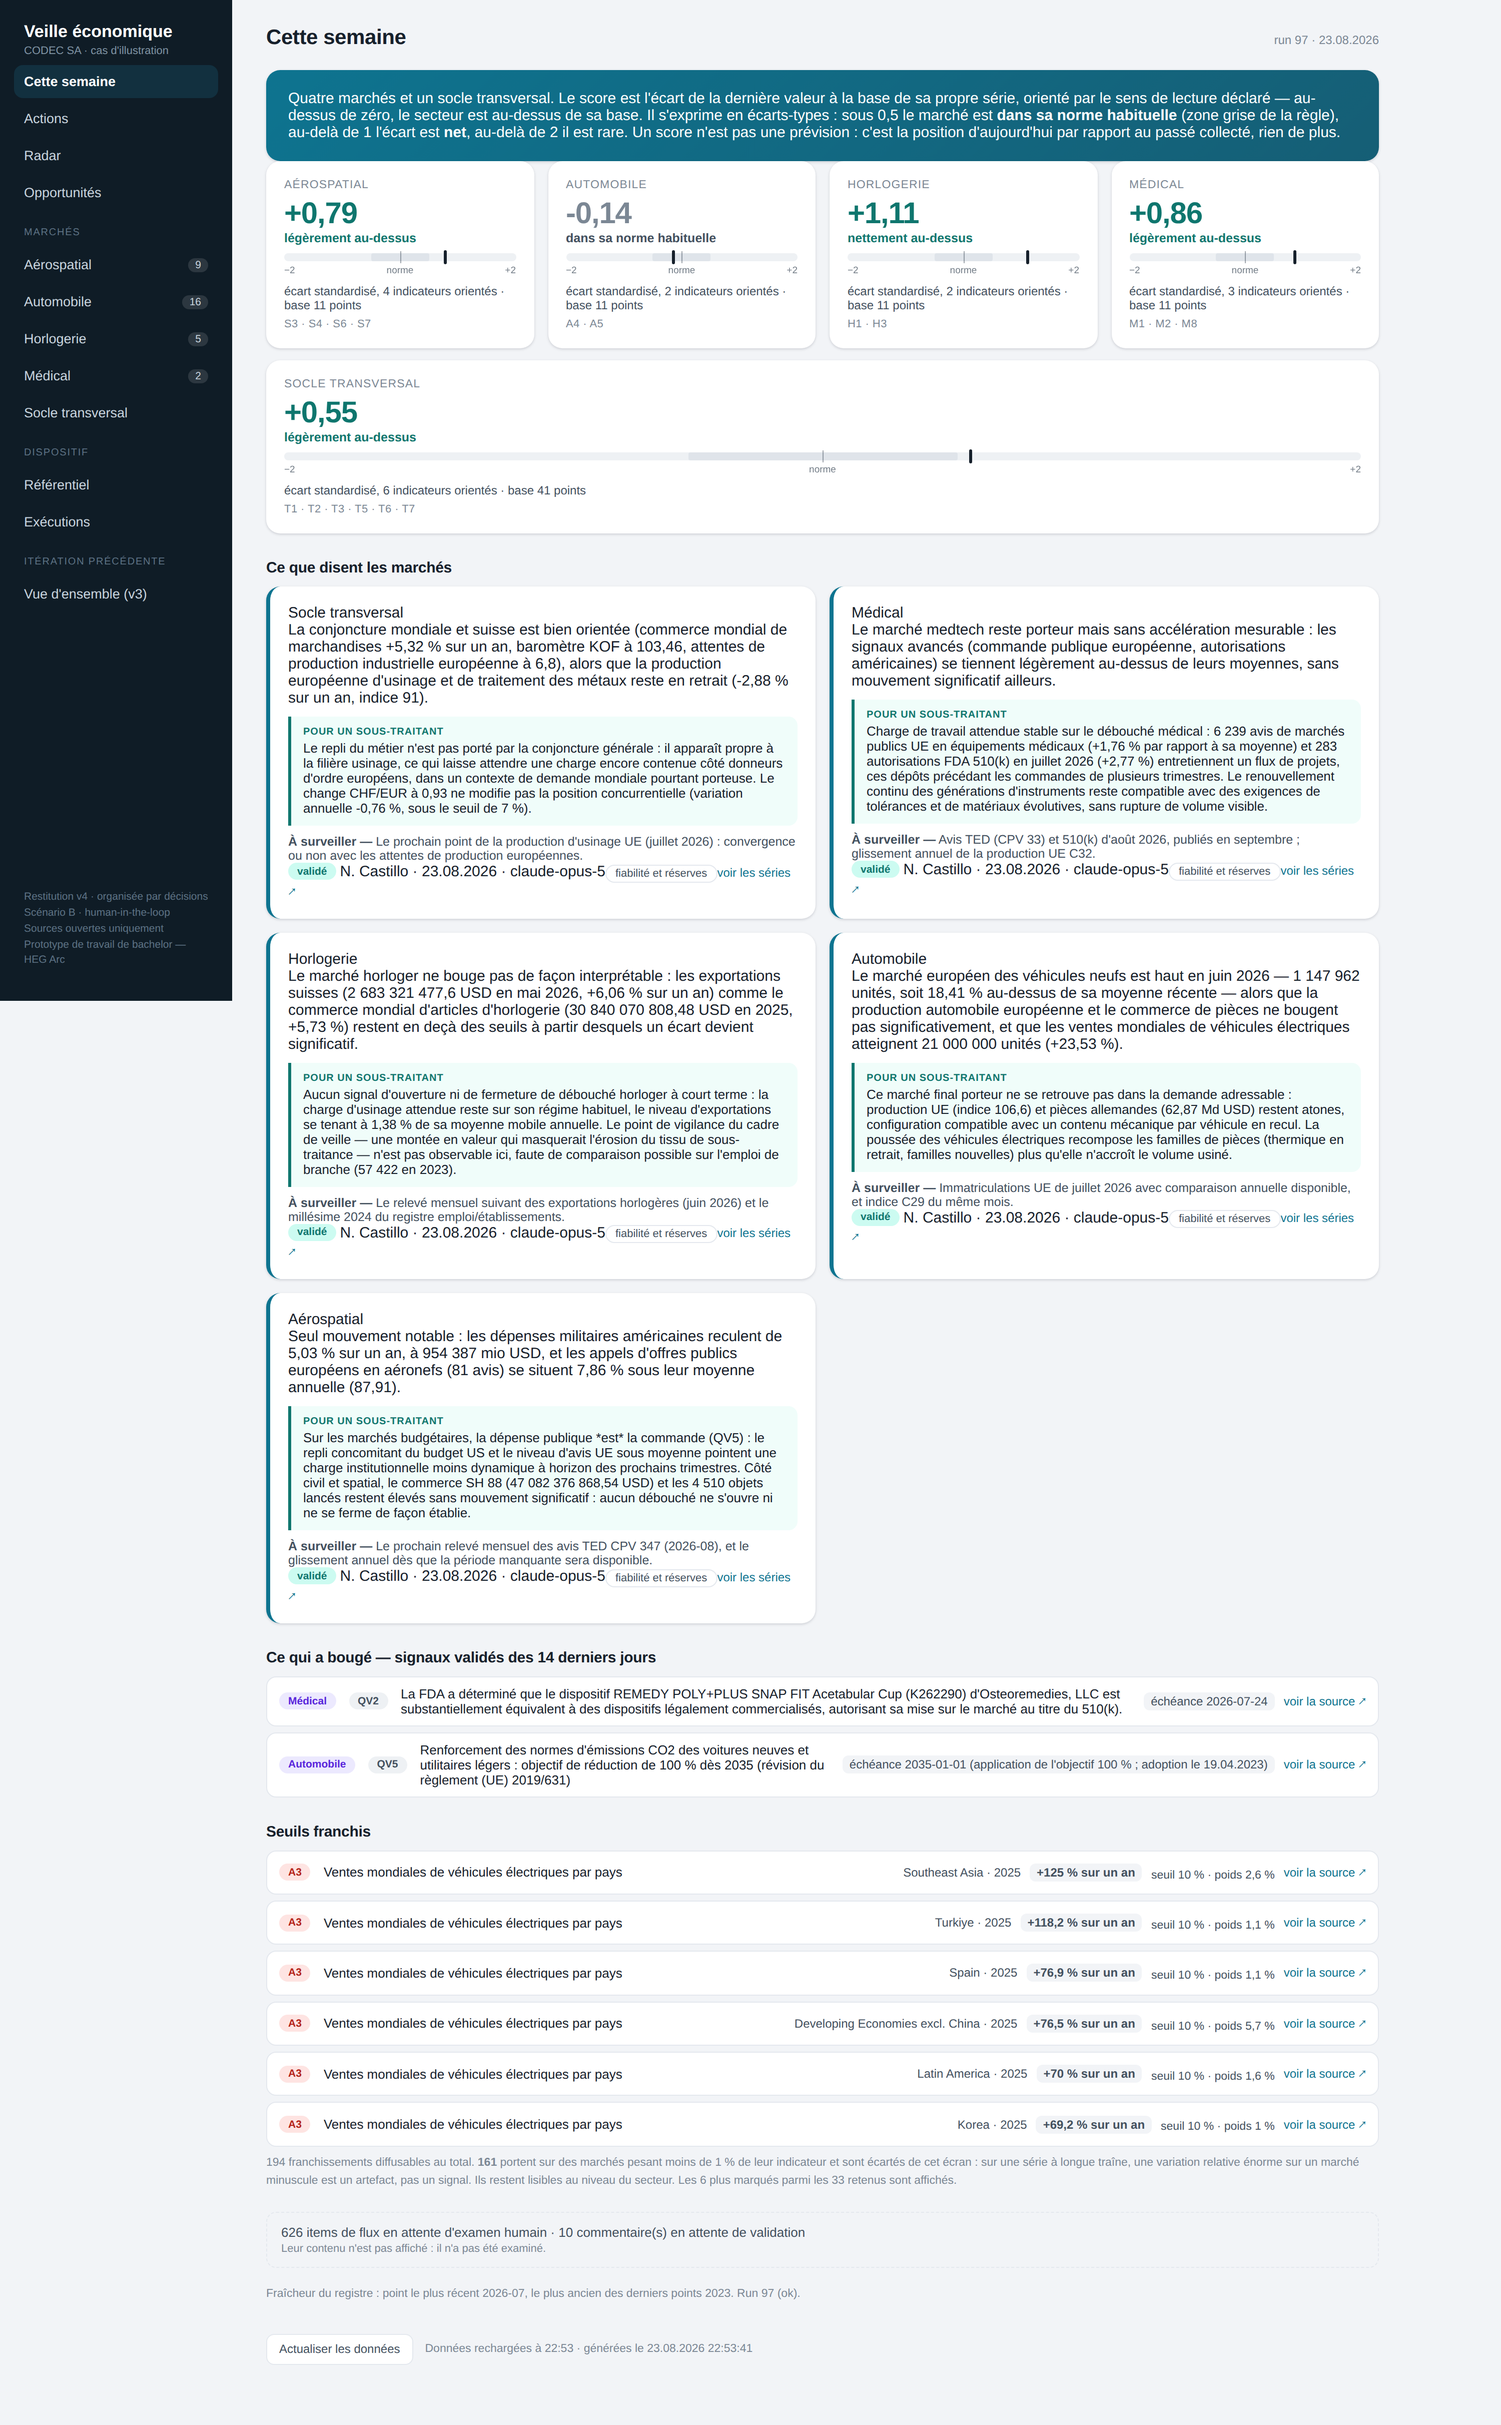
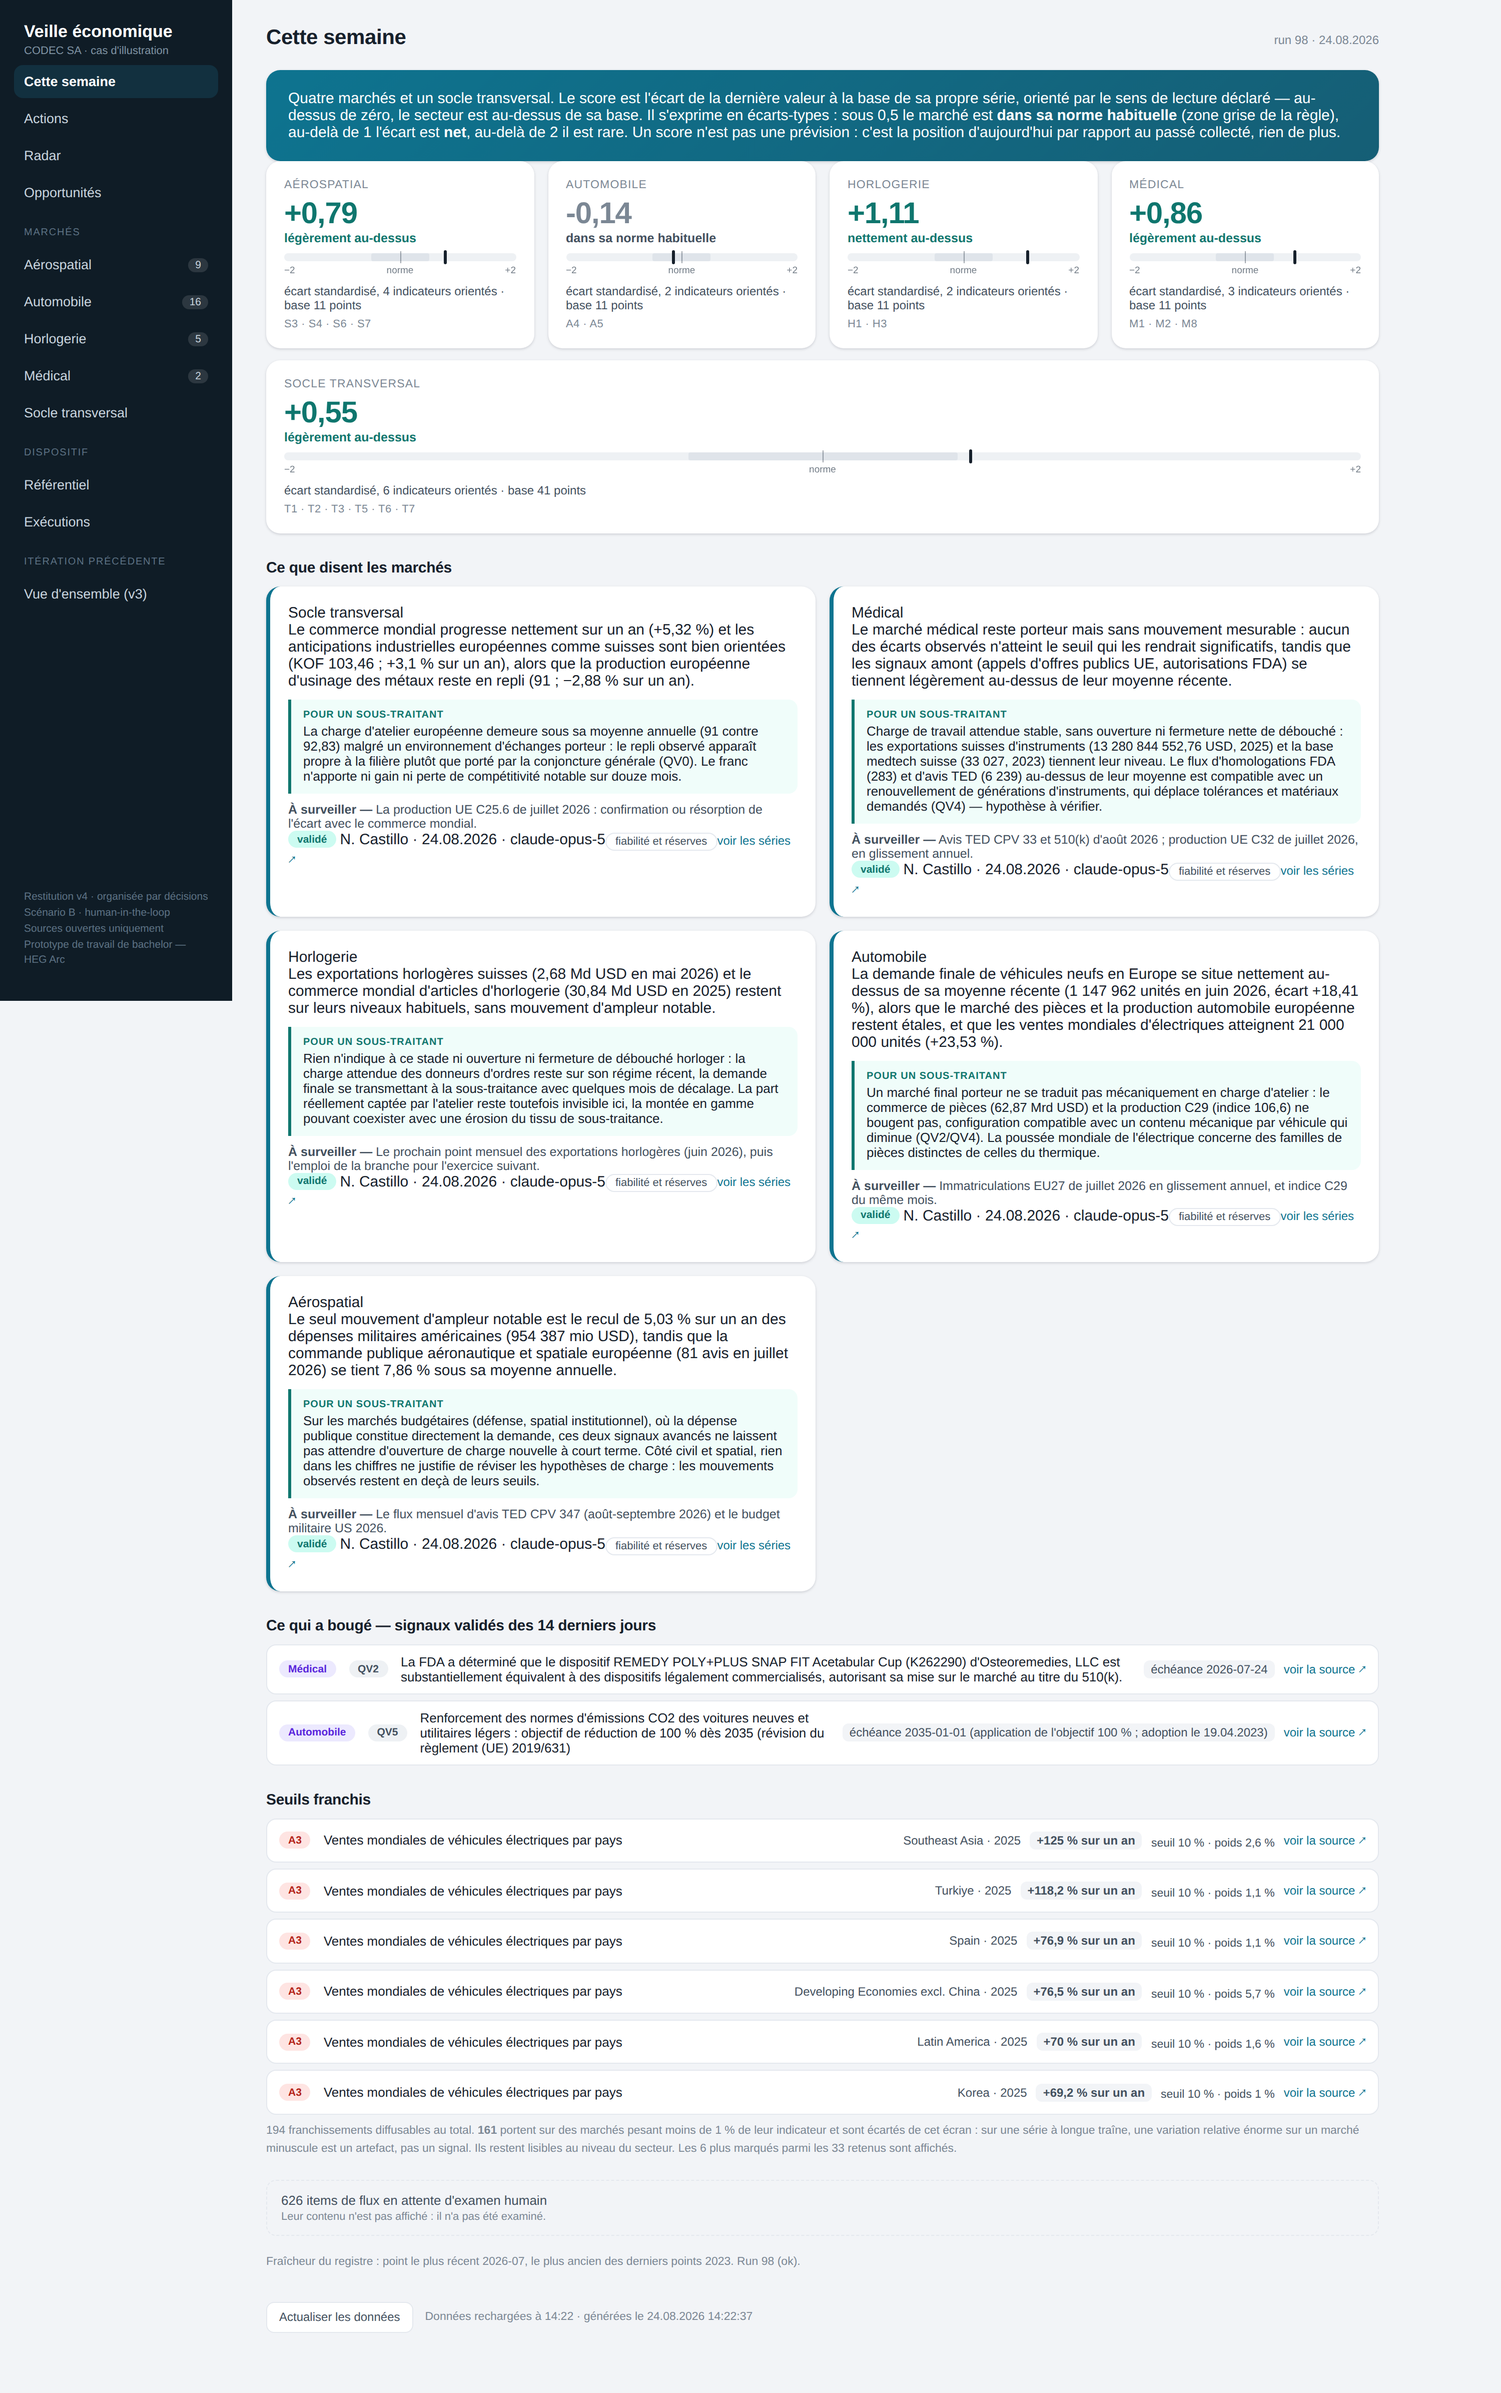
prototype: dix commentaires arbitres, attribution ancree servie a l'ecran
Run 95 rejete en bloc : format perime et libelle de modele ecrit en dur
(claude-opus-4-8) — une sortie dont on ne peut pas nommer l'auteur n'est pas
diffusable. Run 97 valide apres verification chiffre par chiffre contre la
charge soumise ; tout exact. Reserve portee : l'horlogerie conclut « routine »
quand la tuile affiche « nettement au-dessus » — deux toises differentes,
tension d'affichage a instruire.

Attribution ancree : colonnes de validation et contrainte de tracabilite sur la
table de bac a sable — la regle « rien de non valide a l'ecran » vaut aussi
pour une demonstration. Les sept ancres du run 98 verifiees une a une avant
validation. Sixieme point de lecture /veille/attribution, ne servant que le
valide. Bloc d'ecran distinct du commentaire de production, chaque ancre
cliquable jusqu'a sa piece, et les faits NON cites affiches en grise.

Le seul signal valide n'a pas ete cite par le modele : l'ecran le montre.

Claude-Session: https://claude.ai/code/session_01BifTH5u1nbi81GNtmFGb7P

diff --git a/dashboard-app/src/styles.css b/dashboard-app/src/styles.css
@@ -309,3 +309,32 @@ input.filtre:focus{outline:2px solid var(--accent);border-color:transparent}
 /* Indicateur certifié sans observation (écran secteur) */
 .non-collecte{font-size:12px;line-height:1.55;color:var(--encre2);background:#fdf6ec;
   border-left:3px solid var(--ambre);border-radius:0 6px 6px 0;padding:9px 12px;margin:2px 0 10px}
+
+/* Attribution ancrée — démonstration (§ 12.3, écran secteur) */
+.attribution{border:1px solid #cddcf0;background:#f7fafd;border-radius:10px;
+  padding:14px 16px;margin:10px 0 16px}
+.at-tete{display:flex;align-items:center;gap:10px;flex-wrap:wrap;margin-bottom:8px}
+.at-titre{font-weight:700;font-size:13.5px;color:#1b4f91}
+.at-compte{margin-left:auto;font-size:11.5px;color:var(--encre2)}
+.at-principe{font-size:12.5px;line-height:1.6;color:var(--encre2);margin:0 0 10px;
+  border-bottom:1px solid #dde7f4;padding-bottom:10px}
+.at-texte p{font-size:13.5px;line-height:1.65;margin:0 0 9px}
+.ancre{display:inline-block;background:#1b4f91;color:#fff;font-size:10.5px;font-weight:700;
+  border-radius:4px;padding:1px 5px;margin:0 1px;text-decoration:none;vertical-align:1px}
+.ancre:hover{background:#123561}
+.ancre-inconnue{background:var(--rouge);cursor:help}
+.at-pied{display:flex;align-items:center;gap:8px;flex-wrap:wrap;font-size:11.5px;
+  color:var(--encre2);border-top:1px solid #dde7f4;padding-top:9px;margin-top:4px}
+.at-lien{margin-left:auto;color:#1b4f91;cursor:pointer;text-decoration:underline}
+.at-contexte{margin-top:10px;border-top:1px dashed #cddcf0;padding-top:10px}
+.at-sous{font-size:11.5px;color:var(--encre2);margin-bottom:8px;opacity:.9}
+.at-fait{display:flex;align-items:baseline;gap:8px;font-size:12px;padding:4px 0;
+  border-bottom:1px solid #eaf0f7;opacity:.55}
+.at-fait.cite{opacity:1}
+.at-date{color:var(--encre2);white-space:nowrap;font-size:11px}
+.at-lib{flex:1;line-height:1.45}
+.at-nc{font-size:10.5px;color:var(--encre2);font-style:italic;white-space:nowrap}
+.at-reserve{font-size:11.5px;line-height:1.55;color:var(--encre2);margin:10px 0 0;
+  border-top:1px solid #dde7f4;padding-top:9px}
+.at-h{display:block;font-size:11px;text-transform:uppercase;letter-spacing:.5px;
+  color:#1b4f91;margin-bottom:2px}
